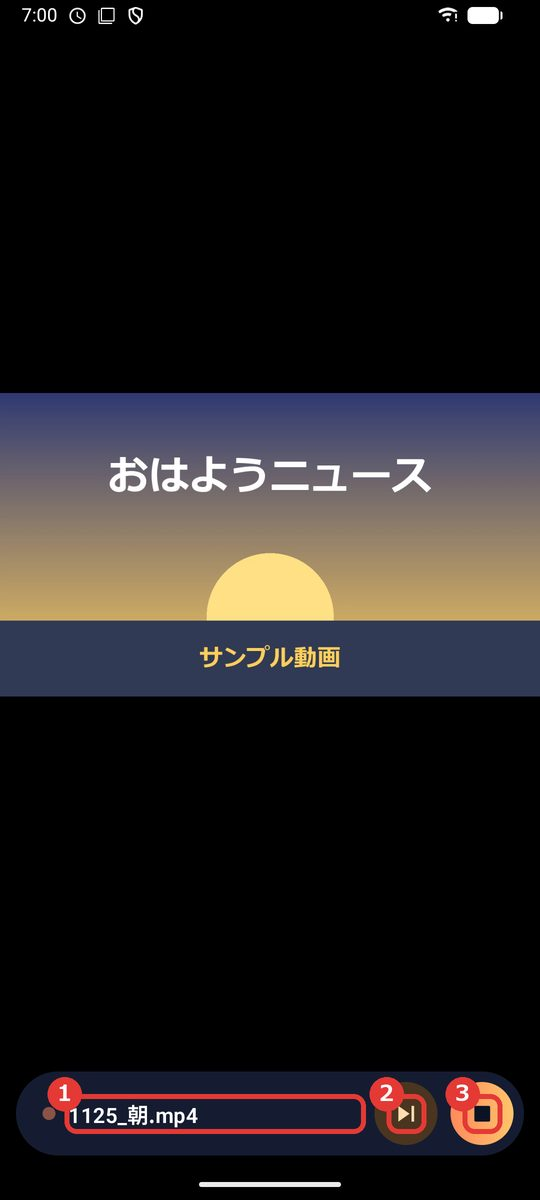
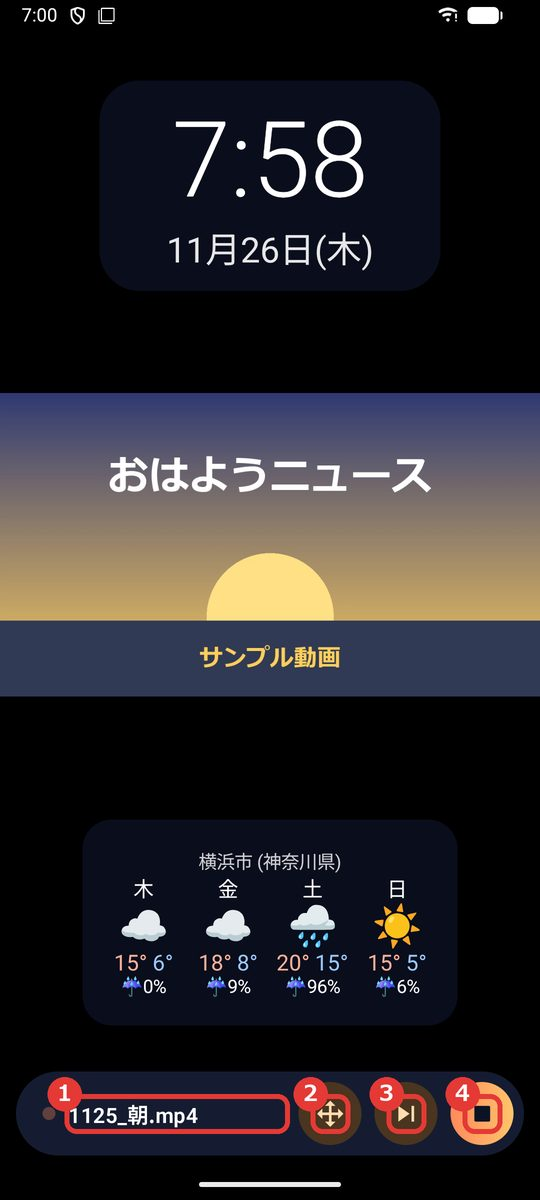
おはようニュースタイマー：時計と天気の説明を足す
- 使い方のページに時計と天気の手順と画像を追加し、設定・再生の画像を更新
- 紹介ページとプライバシーポリシーに天気を追加

diff --git a/morning-news/privacy.html b/morning-news/privacy.html
@@ -9,7 +9,7 @@
 <body>
 <p><a href="./">おはようニュースタイマー</a></p>
 <h1>おはようニュースタイマー プライバシーポリシー</h1>
-<p>制定日：2026年11月25日<br>改定日：2026年11月26日（DLNA サーバーの再生を追加）</p>
+<p>制定日：2026年11月25日<br>改定日：2026年11月26日（DLNA サーバーの再生と、天気の表示を追加）</p>
 <p>DNGG-studio（以下「運営者」）は、Android アプリ「おはようニュースタイマー」（以下「本アプリ」）での利用者の情報の扱いを、次のとおり定めます。本アプリは、決めた時刻に、利用者が選んだニュースのページ・動画・音声の再生を始めるアプリです。<strong>運営者はサーバーを持たず、利用者の情報を運営者のもとに集めることはありません。</strong></p>
 
 <h2>1. 端末の中に保存する情報</h2>
@@ -19,6 +19,7 @@
 <li>利用者が足した情報源の名前と URL</li>
 <li>利用者が足した NAS のフォルダの場所・ユーザー名・パスワード（パスワードは、端末の Android Keystore の鍵で暗号化します）</li>
 <li>利用者が足した DLNA サーバーの名前・識別番号・アドレスと、フォルダの場所</li>
+<li>時計と天気の表示の設定（利用者が選んだ天気の場所の名前と緯度・経度、位置と大きさ）と、最後に取得した天気予報</li>
 <li>本アプリの中で開いたページが保存する Cookie などのデータ</li>
 </ul>
 
@@ -32,6 +33,7 @@
 <tr><td>通知（POST_NOTIFICATIONS）</td><td>時刻のお知らせを出すため</td></tr>
 <tr><td>起動時の実行（RECEIVE_BOOT_COMPLETED）</td><td>端末を再起動したあとに、予定を予約し直すため</td></tr>
 </table>
+<p>天気の場所は、利用者が名前で探して選びます。端末の位置情報は使いません。</p>
 <p>位置情報・連絡先・マイク・カメラ・ストレージの権限は使いません。</p>
 
 <h2>3. 外部への通信</h2>
@@ -40,6 +42,8 @@
 <tr><th>送信先</th><th>送る情報</th><th>目的</th></tr>
 <tr><td>利用者が選んだ情報源のサイト（日テレNEWS NNN、TBS NEWS DIG、YouTube、利用者が足した URL など）</td><td>ページや動画を開くための要求。ページの中の Cookie、アクセス解析、広告などは、各サイトとその提携先が扱います</td><td>ニュースなどの再生。各サイトでの扱いは、それぞれのプライバシーポリシーに従います（YouTube は <a href="https://policies.google.com/privacy">Google のプライバシーポリシー</a>）</td></tr>
 <tr><td>利用者が指定した NAS</td><td>ユーザー名・パスワードによる認証と、ファイルを読む要求</td><td>共有フォルダの一覧とフォルダの中の表示、最新のファイルの再生</td></tr>
+<tr><td><a href="https://open-meteo.com/en/terms">Open-Meteo</a></td><td>利用者が選んだ場所の緯度・経度（小数 2 桁に丸めたもの）。端末の検索で場所が見つからないときは、入力した場所の名前と言語</td><td>天気予報の取得、場所の検索（天気を使うときだけ）</td></tr>
+<tr><td>端末の地名検索（多くの端末では Google）</td><td>入力した場所の名前と言語</td><td>場所の検索（「探す」を押したときだけ）</td></tr>
 <tr><td>利用者が指定した DLNA サーバー</td><td>フォルダの中を見る要求と、動画・音声を読む要求</td><td>フォルダの中の表示、最新の動画・音声の再生</td></tr>
 <tr><td>同じネットワークの機器</td><td>ファイル共有の機器を探す問い合わせ（mDNS）と、DLNA サーバーを探す問い合わせ（SSDP）。NAS・DLNA サーバーを選ぶ画面を開いているあいだと、保存した DLNA サーバーのアドレスが変わったときだけ</td><td>NAS・DLNA サーバーを見つけるため。結果は保存せず、外部に送信しません</td></tr>
 </table>
@@ -66,7 +70,7 @@
 <hr>
 <div lang="en">
 <h1>Good Morning News Timer Privacy Policy</h1>
-<p>Effective: November 25, 2026<br>Updated: November 26, 2026 (added playback from DLNA servers)</p>
+<p>Effective: November 25, 2026<br>Updated: November 26, 2026 (added playback from DLNA servers and the weather display)</p>
 <p>This policy explains how DNGG-studio ("we") handles your information in the Android app "Good Morning News Timer" ("the app"). The app starts playing news pages, video or audio you choose at the time you set. <strong>We run no servers, and we never collect your information.</strong></p>
 
 <h2>1. Information stored on your device</h2>
@@ -76,6 +80,7 @@
 <li>Names and URLs of sources you add</li>
 <li>Folder location, user name and password of a NAS you add (the password is encrypted with a key in Android Keystore)</li>
 <li>Name, identifier and address of a DLNA server you add, and the folder you choose on it</li>
+<li>Clock and weather settings (name and coordinates of the weather location you choose, position and size) and the last forecast received</li>
 <li>Cookies and similar data saved by pages opened in the app</li>
 </ul>
 
@@ -97,6 +102,8 @@
 <tr><th>Recipient</th><th>Data</th><th>Purpose</th></tr>
 <tr><td>Sites of the sources you choose (NTV News NNN, TBS NEWS DIG, YouTube, URLs you add, etc.)</td><td>Requests to open pages and video. Cookies, analytics and ads in the pages are handled by each site and its partners</td><td>Playing news and other content, under each site's privacy policy (for YouTube, the <a href="https://policies.google.com/privacy">Google Privacy Policy</a>)</td></tr>
 <tr><td>The NAS you specify</td><td>Sign-in with the user name and password, and requests to read files</td><td>Listing shared folders and their contents, and playing the newest file</td></tr>
+<tr><td><a href="https://open-meteo.com/en/terms">Open-Meteo</a></td><td>Coordinates of the place you chose, rounded to two decimals. If the device's place search finds nothing, the place name you typed and the language</td><td>Weather forecasts and place search (only when you use the weather). The app does not use your device's location</td></tr>
+<tr><td>The device's place search (Google on most devices)</td><td>The place name you typed and the language</td><td>Place search (only when you press Search)</td></tr>
 <tr><td>The DLNA server you specify</td><td>Requests to list folders and to read audio and video</td><td>Listing folders and playing the newest audio or video</td></tr>
 <tr><td>Devices on your local network</td><td>Queries for file-sharing devices (mDNS) and DLNA servers (SSDP), only while a picker is open or when the address of a saved DLNA server has changed</td><td>To find NAS devices and DLNA servers. Results are not stored or sent anywhere</td></tr>
 </table>

diff --git a/morning-news/manual.html b/morning-news/manual.html
@@ -11,7 +11,7 @@
 <p><a href="./">おはようニュースタイマー の紹介ページへ戻る</a></p>
 <h1>おはようニュースタイマー の使い方</h1>
 <p>おはようニュースタイマー（Good Morning News Timer）は、決めた時刻にニュースの再生を自動で始めるアプリです。</p>
-<p class="note">この説明は バージョン 0.1.0 の画面に合わせています（2026年11月26日、DLNA に対応しました）。画面はこれから変わることがあります。画像の赤い枠と番号は、説明の番号と同じところです。</p>
+<p class="note">この説明は バージョン 0.1.0 の画面に合わせています（2026年11月26日、DLNA と、時計・天気の表示に対応しました）。画面はこれから変わることがあります。画像の赤い枠と番号は、説明の番号と同じところです。</p>
 
 <ol class="toc">
 <li><a href="#start">はじめに（許可）</a></li>
@@ -22,6 +22,7 @@
 <li><a href="#url">URL を追加する</a></li>
 <li><a href="#nas">NAS を追加する</a></li>
 <li><a href="#dlna">DLNA を追加する</a></li>
+<li><a href="#display">時計と天気</a></li>
 <li><a href="#settings">設定</a></li>
 <li><a href="#faq">よくある質問</a></li>
 </ol>
@@ -74,6 +75,7 @@
 <p>音が出るまでは、夜明けの空と時計（左）が出ます。画面を押すと、後ろのページを見られます。音が出ると再生の画面（右）に変わります。</p>
 <ol>
 <li>いま再生している情報源やファイルの名前です</li>
+<li><strong>矢印が 4 つのボタン</strong>：時計と天気の位置と大きさを変えます（<a href="#display">9.</a>）</li>
 <li><strong>次の情報源</strong>のボタン：予定の次の情報源に切り替えます</li>
 <li><strong>停止</strong>のボタン：再生を止めて、音量を元に戻します</li>
 </ol>
@@ -166,14 +168,41 @@
 <li>動画の形式（MPEG-2 など）によっては、端末で再生できないことがあります</li>
 </ul>
 
-<h2 id="settings">9. 設定</h2>
+<h2 id="display">9. 時計と天気</h2>
+<p>再生の画面に、時計と天気予報を重ねて出せます。「設定」の「時計と天気」を押します。</p>
+<img class="shot" src="images/manual/display.jpg" width="540" height="1200" loading="lazy" alt="時計と天気の設定">
+<ol>
+<li><strong>「時計を表示」</strong>：時刻と日付を出します</li>
+<li><strong>「天気」</strong>：「表示しない」「今日」「4 日間」「1 週間」から選びます</li>
+<li><strong>「市区町村の名前」</strong>を入れて<strong>「探す」</strong>を押し、出てきた中から天気の場所を選びます。選ぶまで天気は出ません</li>
+<li><strong>「位置と大きさを変える」</strong>：下の画面を開きます</li>
+</ol>
+<h3>位置と大きさを変える</h3>
+<p>設定の「位置と大きさを変える」のほか、再生の画面の矢印が 4 つのボタンからも開けます。再生の画面からなら、映像を見ながら合わせられます。</p>
+<img class="shot" src="images/manual/layout.jpg" width="540" height="1200" loading="lazy" alt="位置と大きさを変えているところ">
+<ol>
+<li>時計を指で動かします</li>
+<li>天気を指で動かします</li>
+<li><strong>「時計」「天気」</strong>：大きさを変えるほうを選び、下のつまみを左右に動かします</li>
+<li><strong>丸い矢印</strong>：最初の位置と大きさに戻します</li>
+<li><strong>チェック</strong>：終わります</li>
+</ol>
+<ul>
+<li>位置と大きさは、縦向きと横向きで別々に覚えます。画面からはみ出す大きさにはなりません</li>
+<li>天気の数字は、赤が最高気温、青が最低気温（℃）、傘が降水確率です。再生の画面を出しているあいだ、30 分ごとに新しくします</li>
+<li>時計や天気の上を触っても、後ろのページを操作できます</li>
+<li>天気予報は <a href="https://open-meteo.com/">Open-Meteo.com</a>（CC BY 4.0）のデータです</li>
+</ul>
+
+<h2 id="settings">10. 設定</h2>
 <img class="shot" src="images/manual/settings.jpg" width="540" height="1200" loading="lazy" alt="設定の画面">
 <ol>
+<li><strong>「時計と天気」</strong>：<a href="#display">9.</a> へ</li>
 <li><strong>「言語」</strong>：12 言語から選べます。「自動」なら端末の言語です</li>
 <li><strong>「プライバシーポリシー」</strong>：このサイトのページを開きます</li>
 </ol>
 
-<h2 id="faq">10. よくある質問</h2>
+<h2 id="faq">11. よくある質問</h2>
 <h3>時刻になっても始まりません</h3>
 <p>ホームの画面に許可の案内が出ていないか、予定のスイッチが ON かを確かめてください。端末の設定でアプリを「強制停止」すると、次にアプリを開くまで再生は始まりません。端末の電源が切れているときも始まりません。</p>
 <h3>音が出ません</h3>

diff --git a/morning-news/index.html b/morning-news/index.html
@@ -27,6 +27,7 @@
 <li><strong>URL の追加：</strong>ニュースのページ、YouTube、動画・音声（m3u8・mp4・mp3 など）の URL を登録できます</li>
 <li><strong>NAS：</strong>フォルダをたどって選ぶと、その中のいちばん新しい動画・音声を再生します（SMB 2 / 3）</li>
 <li><strong>DLNA：</strong>同じネットワークの DLNA サーバーのフォルダを選ぶと、その中のいちばん新しい動画・音声を再生します（著作権保護された録画は再生できません）</li>
+<li><strong>時計と天気：</strong>再生の画面に、時計と天気予報（今日・4 日間・1 週間）を重ねて表示。位置と大きさを自由に変えられます</li>
 <li><strong>音量と自動停止：</strong>予定ごとに音量を決められ、終わると元の音量に戻します。決めた時間で自動で止められます</li>
 <li>縦・横の画面、12 言語に対応</li>
 </ul>
@@ -58,6 +59,7 @@
 <li><strong>Add URLs:</strong> news pages, YouTube, or audio/video (m3u8, mp4, mp3…)</li>
 <li><strong>NAS:</strong> browse to a folder, and the app plays its newest audio or video file (SMB 2 / 3)</li>
 <li><strong>DLNA:</strong> choose a folder on a DLNA server on your network, and the app plays its newest audio or video (copy-protected recordings can't be played)</li>
+<li><strong>Clock and weather:</strong> show a clock and a forecast (today, 4 days or 1 week) over playback, with adjustable position and size</li>
 <li><strong>Volume and automatic stop:</strong> set for each schedule. The volume is restored afterward</li>
 <li>Portrait and landscape, 12 languages</li>
 </ul>
